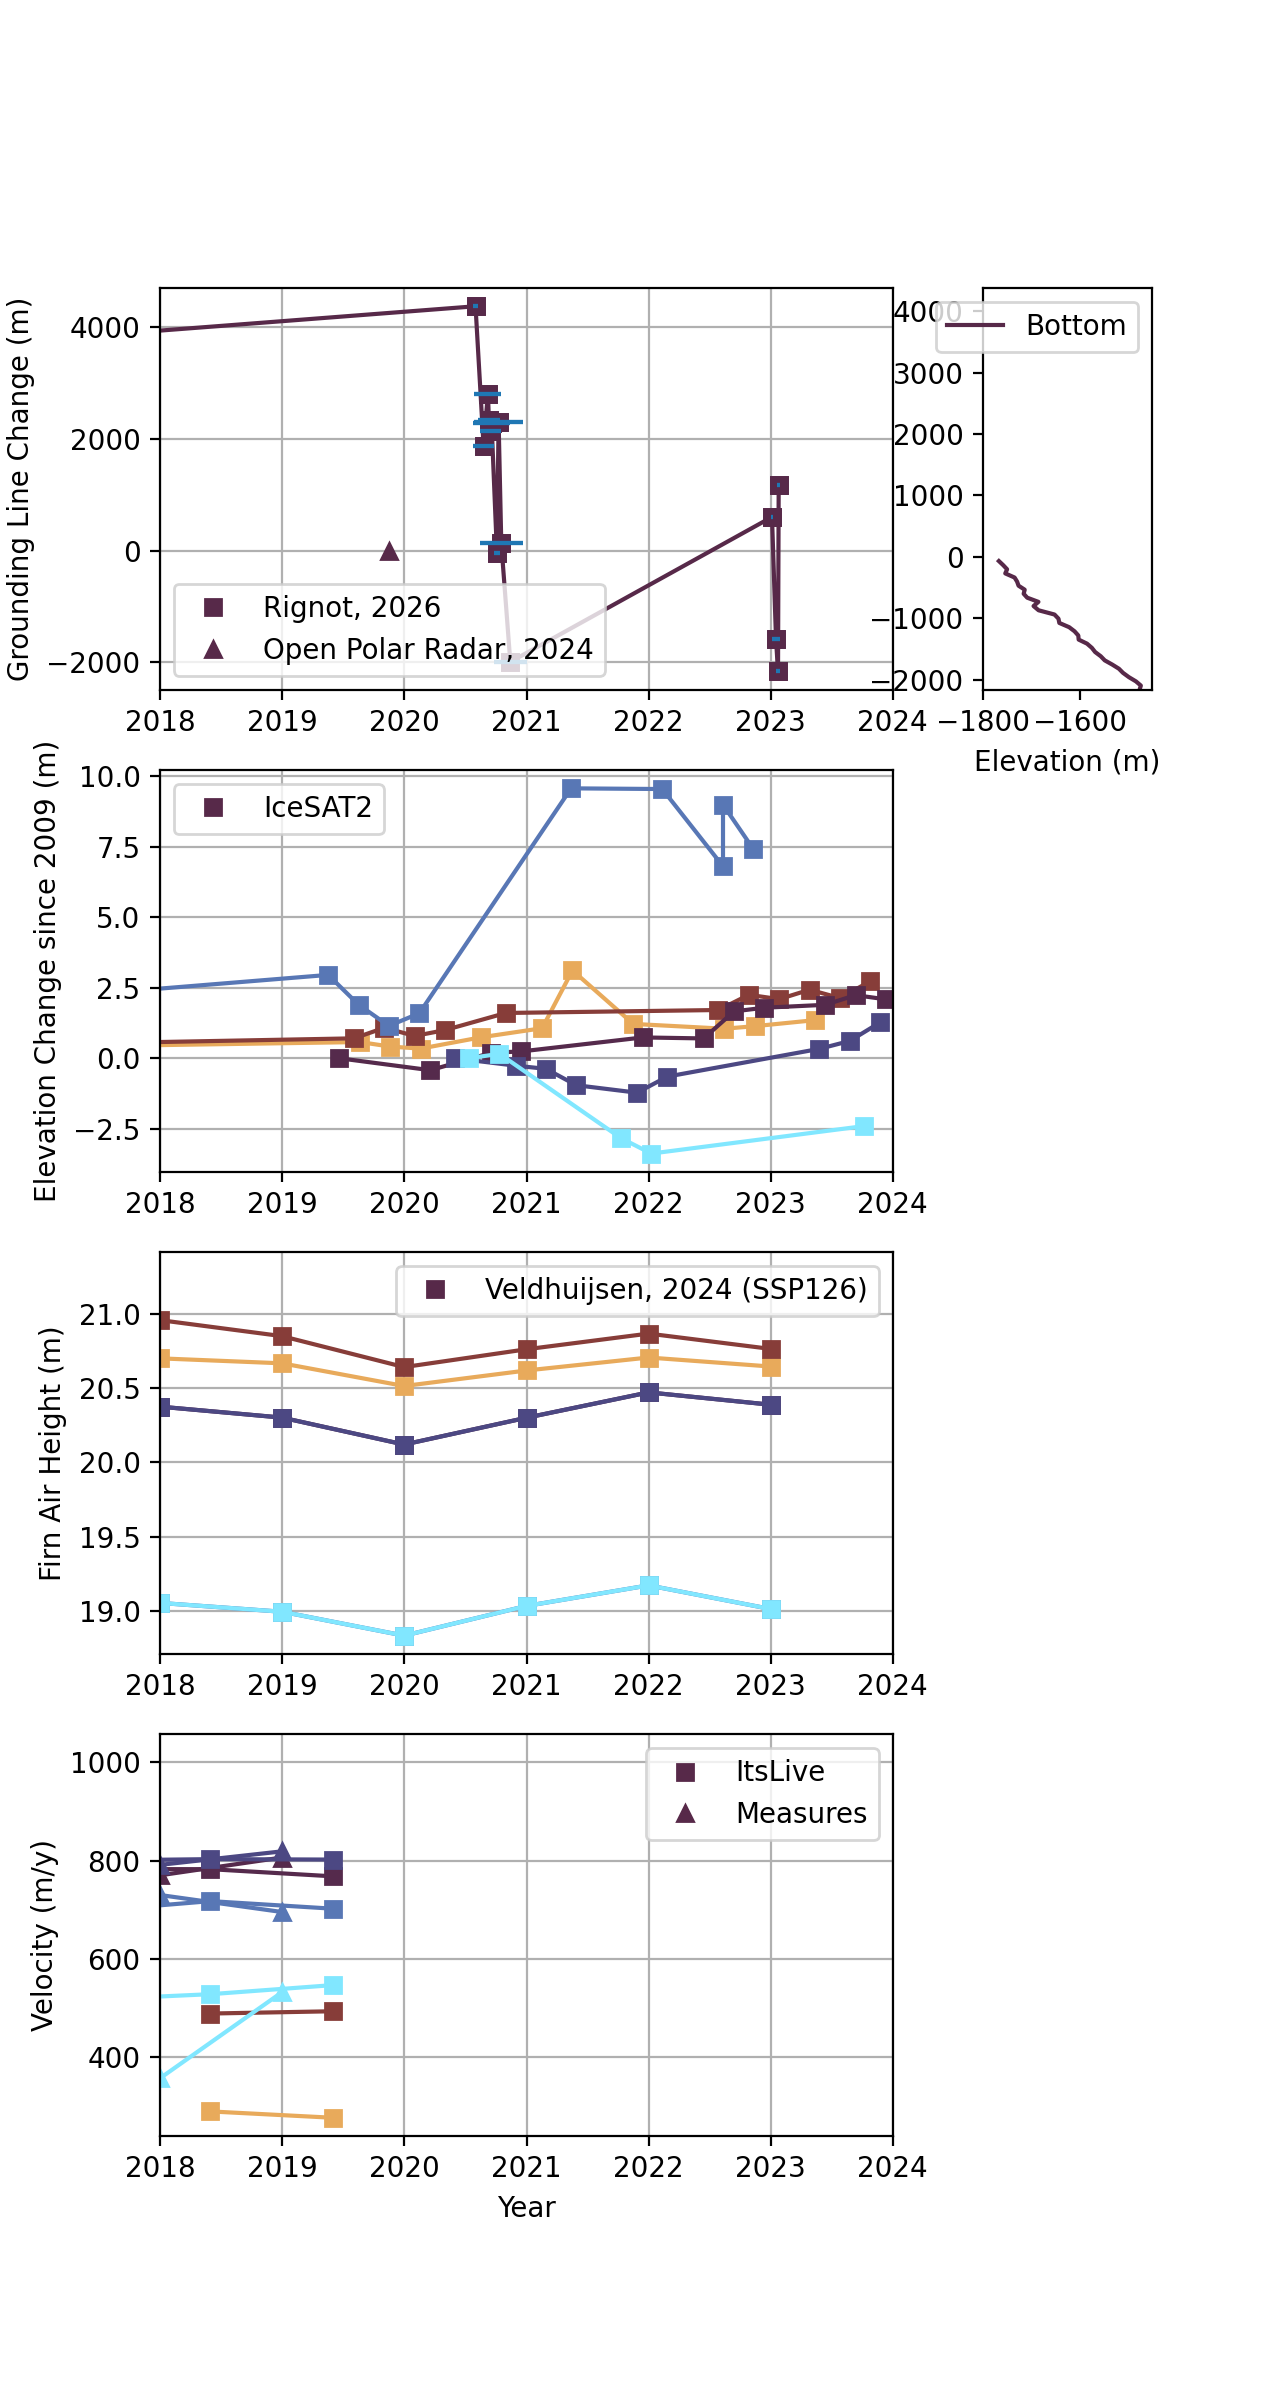
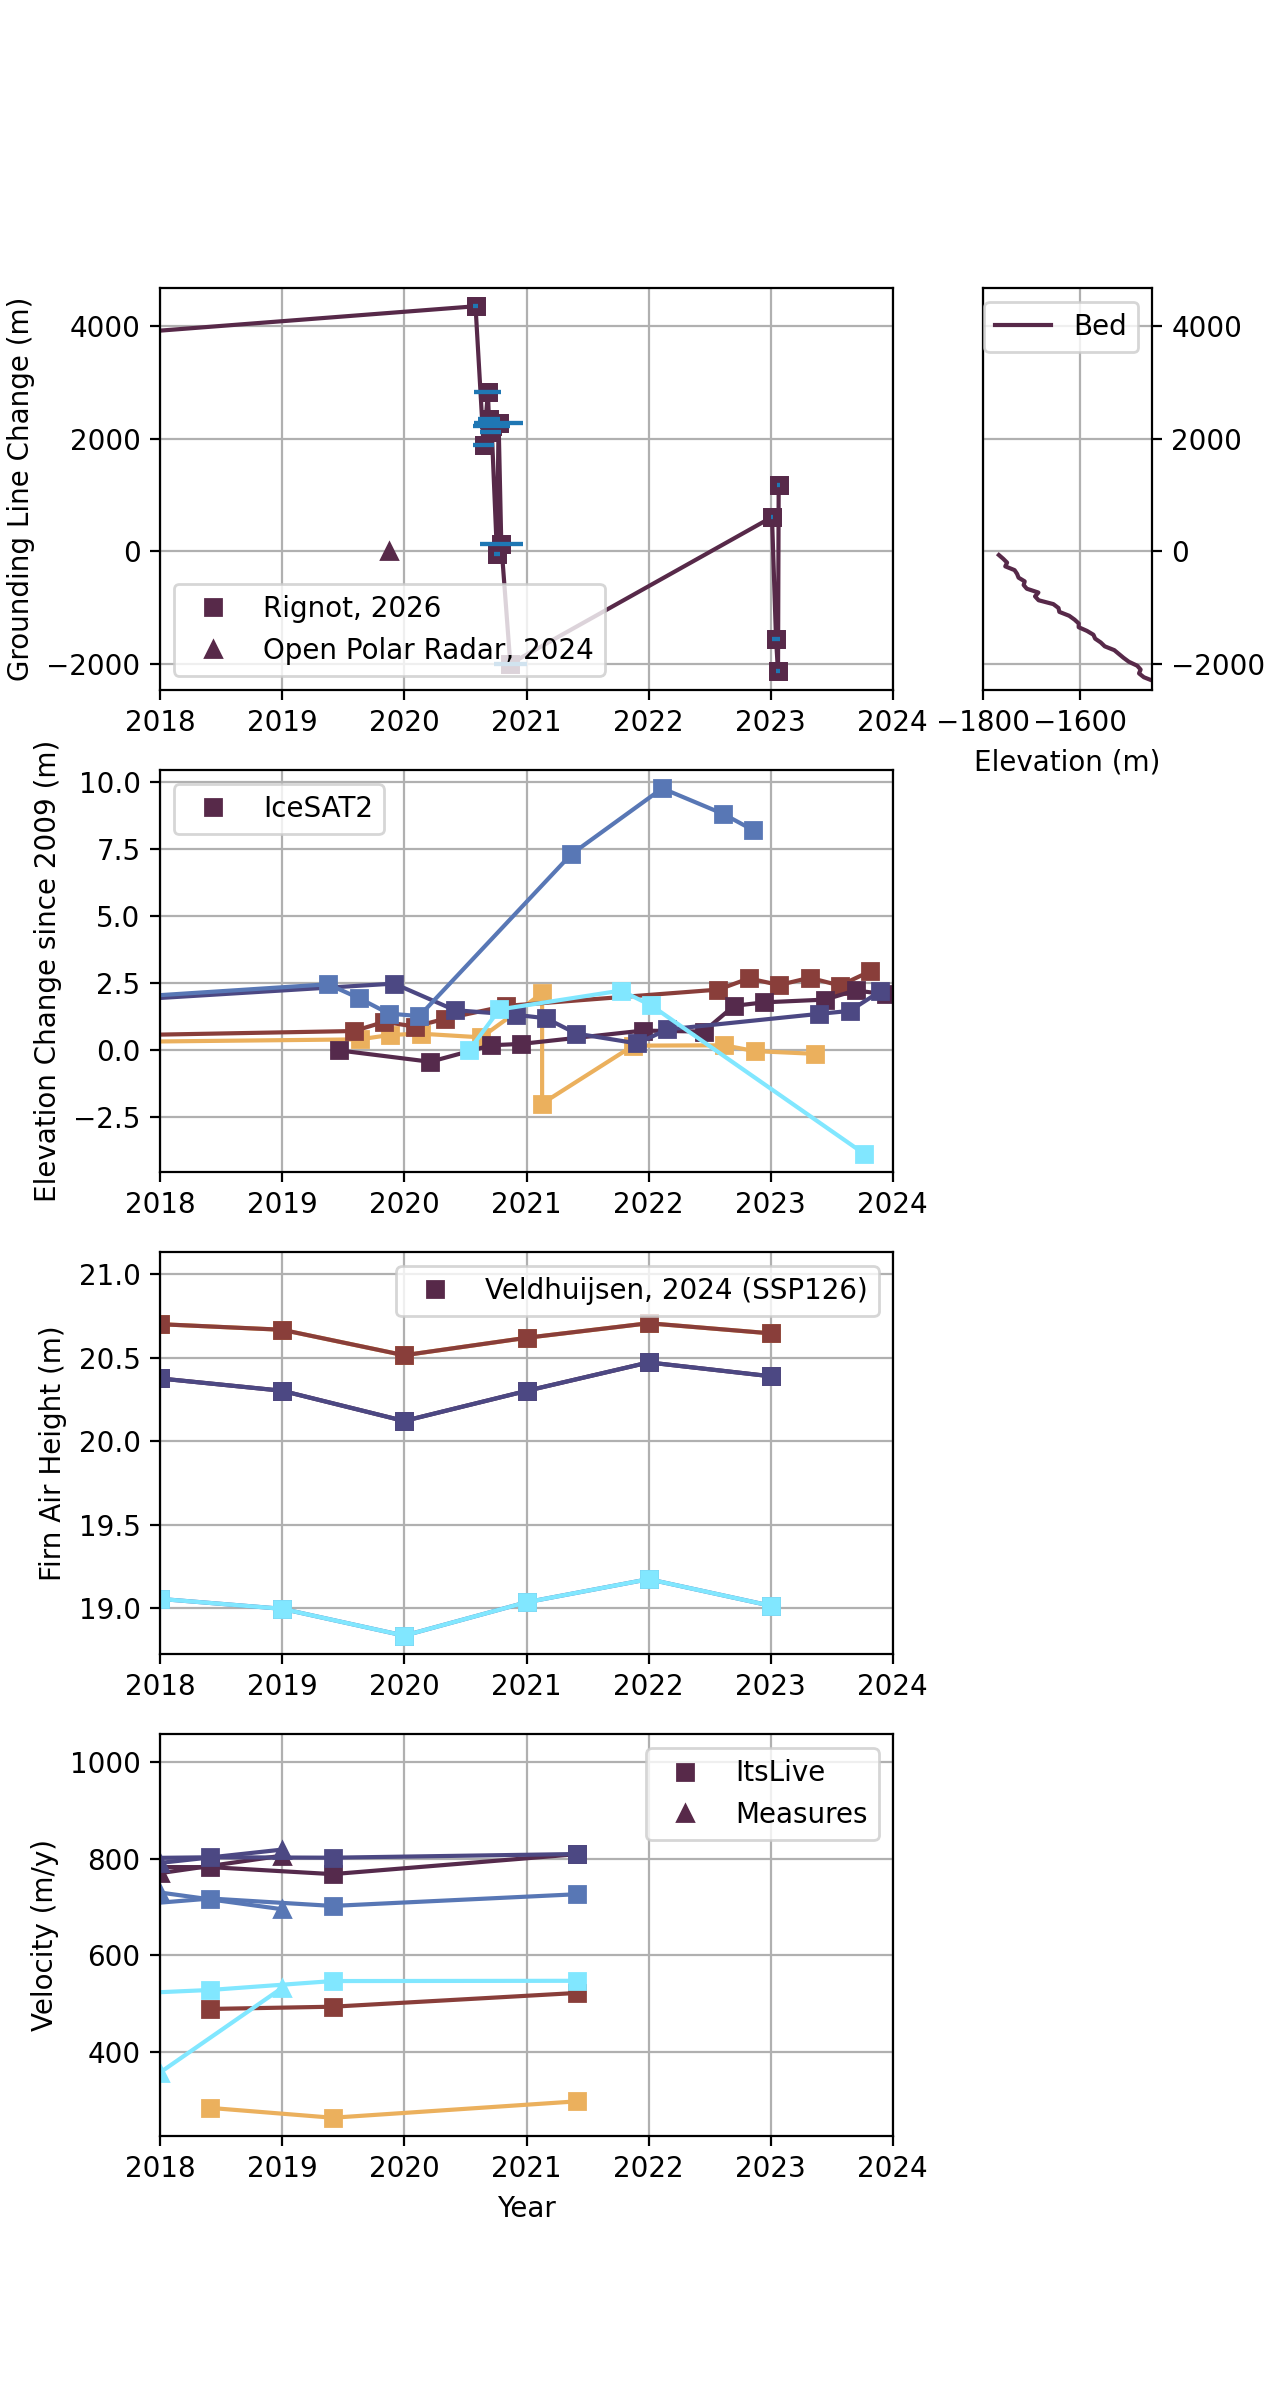
elevation preview scale fixed

diff --git a/src/pointwise.py b/src/pointwise.py
@@ -345,26 +345,37 @@ class Pointwize():
 
 
     def plot_elevation_summary(self, fig, ax):
+            
+        sm = mpl.cm.ScalarMappable(norm=self.norm, cmap=self.cm)
+        color = sm.to_rgba(0)
 
         fm = IPRManager(self.xlim, self.ylim, self.flags, self.data)
         out = fm.get_ouput_files()
         out = df_ref = gpd.sjoin_nearest(self.fl, out, max_distance=self.max_dist*10)
 
         out = out.sort_values('dist_from_grndline')
+        #bad_out = out.copy(deep=True)
         out['real_elevation1'] = out['real_elevation1'].where(out['dist_from_grndline'] < 0)
-            
-        
-
-        sm = mpl.cm.ScalarMappable(norm=self.norm, cmap=self.cm)
-        color = sm.to_rgba(0)
 
 
-        ax.plot(out['real_elevation1'] - out['THICK'], out['dist_from_grndline'].values, marker= 'None', color=color, label='Bottom')
+        #ax.plot(bad_out['real_elevation1'] - bad_out['THICK'], bad_out['dist_from_grndline'].values, marker= 'None', color=color, label='Bottom', ls = ':', alpha=0.5)
+        ax.plot(out['real_elevation1'] - out['THICK'], out['dist_from_grndline'].values, marker= 'None', color=color, label='Bed')
         
         ax.legend()
+        ax.grid()
 
-        ax.set_ylim(min(self.results[''][self.data].values), max(self.results[''][self.data].values))
+
+        ymin = min(self.results[''][self.data].values)
+        ymax = max(self.results[''][self.data].values)
+
+        ypadd = 0.05 * (ymax - ymin)
+
+        ax.set_ylim(ymin - np.abs(ypadd), ymax + np.abs(ypadd))
+        ax.yaxis.tick_right()
+        ax.yaxis.set_label_position("right")
+
         ax.set_xlim(-1800, -1450)
+
 
         #ax.set_ylabel("Grounding Line Change (m)")
         ax.set_xlabel("Elevation (m)")

diff --git a/src/file_manager.py b/src/file_manager.py
@@ -126,7 +126,7 @@ class FileManager:
     def generate_image(self, data, data_name, chart_function, year, reprojected = False):
         if type(data) != bool:
             os.makedirs(TIF_LOCATION + '/'.join(data_name.split('/')[:-1]), exist_ok=True)
-            data.rio.to_raster(TIF_LOCATION + data_name)
+            data.transpose('y', 'x').rio.to_raster(TIF_LOCATION + data_name)
         
         if chart_function != None:
             fig, ax = plt.subplots()
@@ -526,7 +526,7 @@ class ElevationManager(FileManager):
 
             if np.isnan(df['band_data'].values) or df['band_data'].values == 0:
                 continue
-            
+
             if self.data + '_yerr' in df.columns:
                 found_err.append(df[self.data + '_yerr'].values)
 
